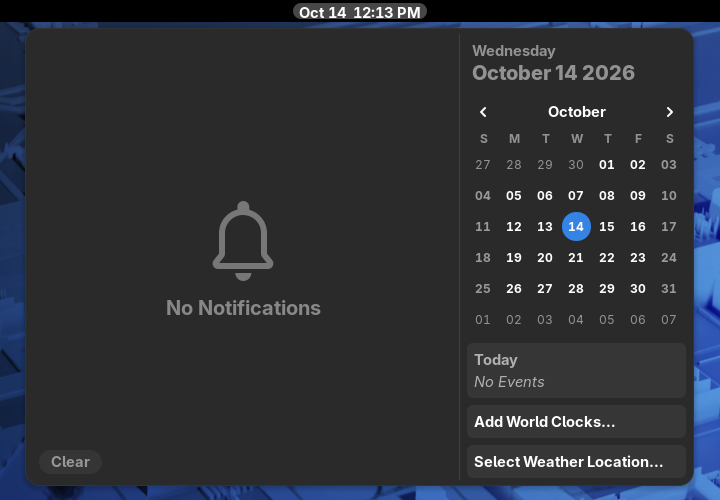
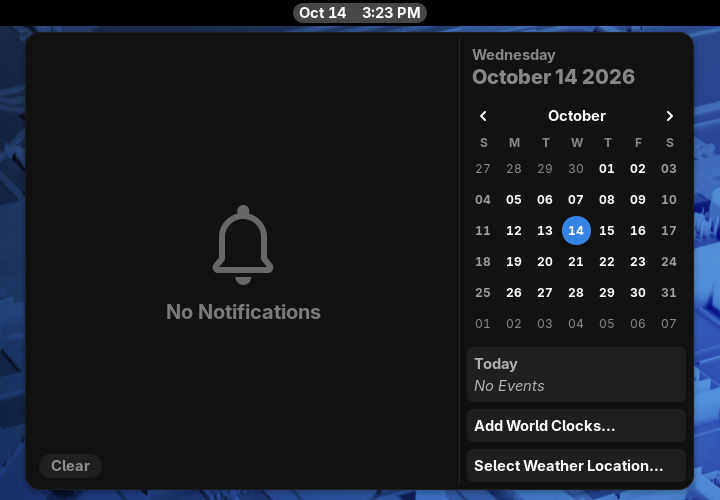
fixing the shell colors

diff --git a/src/gnome-shell/popups.css b/src/gnome-shell/popups.css
@@ -1,0 +1,12 @@
+/* Popups (menus, quick settings, calendar) and notification banners:
+ * near-black background like the Hardcore color scheme, in both the light
+ * and the dark shell. Everything inside them comes from the generated dark
+ * layer above, whose grays are shifted so contrast steps match the theme. */
+
+.popup-menu-boxpointer .popup-menu-content { background-color: #121212; border-color: #1e1e1e; }
+
+/* Banners match the popups: same background, border and corners. */
+#notification-container .notification-banner {
+  background-color: #121212;
+  border: 1px solid #1e1e1e;
+}

diff --git a/scripts/compact.py b/scripts/compact.py
@@ -14,8 +14,12 @@ each special case gets its own scaled copy, so the upstream cascade is kept.
 Every rule that sets one of those properties is mirrored, even when its
 values stay the same (see transform_rule).
 
-With --full the whole stylesheet is re-emitted instead (used for GNOME Shell,
-where a theme replaces the stock stylesheet rather than layering on top).
+With --full the whole stylesheet is re-emitted instead (the always-dark
+GNOME Shell theme).
+
+With --scope the color properties of the stylesheet are re-emitted under the
+given ancestor selector(s) instead (used to give GNOME Shell popups and
+notifications the dark styling while the rest of the shell stays light).
 """
 
 import argparse
@@ -87,8 +91,9 @@ class Scaler:
         return round(v * self.pad, 3)
 
 
-def darken_grays(value, factor):
-    """Turn near-neutral dark/mid grays into darker, fully neutral grays."""
+def darken_grays(value, factor, offset=0):
+    """Turn near-neutral dark/mid grays into darker, fully neutral grays,
+    optionally shifted by a constant `offset` afterwards."""
     def sub(m):
         h = m.group(1)
         if len(h) == 3:
@@ -97,7 +102,7 @@ def darken_grays(value, factor):
         avg = sum(rgb) / 3
         if max(rgb) - min(rgb) > 8 or not 20 <= avg <= 110:
             return m.group(0)
-        return "#{0:02x}{0:02x}{0:02x}".format(round(avg * factor))
+        return "#{0:02x}{0:02x}{0:02x}".format(max(0, round(avg * factor) + offset))
     return HEX.sub(sub, value)
 
 
@@ -252,6 +257,48 @@ def emit_full(items, s, darken):
     return out
 
 
+COLOR_PROP = re.compile(
+    r"color|^background(-image)?$|^border(-(top|right|bottom|left))?$|shadow"
+)
+
+
+def scoped_rule(selector, body, scopes, outside, darken, offset):
+    """Re-emit the color properties of a rule under each ancestor in `scopes`."""
+    decls = []
+    for p, v in split_decls(body):
+        if COLOR_PROP.search(p):
+            if darken:
+                v = darken_grays(v, darken, offset)
+            decls.append(f"{p}: {v};")
+    if not decls:
+        return []
+    sels = []
+    for x in (y.strip() for y in split_top(selector, ",")):
+        if outside.search(x):
+            continue
+        if x == "stage":  # inherited base text color
+            sels.extend(scopes)
+        elif any(sc in x for sc in scopes):
+            sels.append(x)
+        else:
+            sels.extend(f"{sc} {x}" for sc in scopes)
+    if not sels:
+        return []
+    return [f"{', '.join(sels)} {{ {' '.join(decls)} }}"]
+
+
+def emit_scoped(items, scopes, outside, darken, offset):
+    out = []
+    for item in items:
+        if item[0] == "rule":
+            out.extend(scoped_rule(item[1], item[2], scopes, outside, darken, offset))
+        elif item[0] == "block" and item[1].startswith(("@media", "@supports")):
+            inner = emit_scoped(item[2], scopes, outside, darken, offset)
+            if inner:
+                out.append(item[1] + " {\n" + "\n".join(inner) + "\n}")
+    return out
+
+
 def emit(items, s):
     out = []
     for item in items:
@@ -282,7 +329,14 @@ def main():
     ap.add_argument("--exclude", action="append", default=[],
                     help="extra selector regex to leave unscaled (repeatable)")
     ap.add_argument("--darken-grays", type=float, default=0,
-                    help="with --full: multiply neutral dark grays by this factor")
+                    help="multiply neutral dark grays by this factor")
+    ap.add_argument("--gray-offset", type=int, default=0,
+                    help="with --darken-grays: then add this to each gray")
+    ap.add_argument("--scope", action="append", default=[],
+                    help="emit color properties under this ancestor (repeatable)")
+    ap.add_argument("--outside", default=r"(?!x)x",
+                    help="with --scope: regex of selectors that never occur "
+                         "inside the scopes (skipped)")
     args = ap.parse_args()
 
     global EXCLUDE
@@ -295,7 +349,13 @@ def main():
         with open(path, encoding="utf-8") as f:
             css = re.sub(r"/\*.*?\*/", "", f.read(), flags=re.S)
         items, _ = parse(css)
-        rules = emit_full(items, s, args.darken_grays) if args.full else emit(items, s)
+        if args.scope:
+            rules = emit_scoped(items, args.scope, re.compile(args.outside),
+                                args.darken_grays, args.gray_offset)
+        elif args.full:
+            rules = emit_full(items, s, args.darken_grays)
+        else:
+            rules = emit(items, s)
         chunks.append(f"/* from {path.rsplit('/', 1)[-1]} */\n" + "\n".join(rules))
 
     header = (

diff --git a/README.md b/README.md
@@ -41,6 +41,7 @@ The light variant has only the padding changes.
 | Shell quick settings | ![](docs/screenshots/shell-stock-dark-quicksettings.png) | ![](docs/screenshots/shell-ggtk-dark-quicksettings.png) |
 | Shell calendar | ![](docs/screenshots/shell-stock-dark-datemenu.png) | ![](docs/screenshots/shell-ggtk-dark-datemenu.png) |
 | Shell, `ggtk` in light mode | | ![](docs/screenshots/shell-ggtk-light-quicksettings.png) |
+| Notification banner, `ggtk` in light mode | | ![](docs/screenshots/shell-ggtk-light-banner.png) |
 
 | libadwaita (light) | Menu |
 |---|---|
@@ -94,6 +95,11 @@ variants behave differently:
 
 GNOME Shell can't do both at once: its CSS has no way to switch colors by
 color scheme, and a theme stylesheet is a single fixed file.
+
+In **both** variants and both modes, popups and notification banners are
+near-black (`#121212`, like the Hardcore color scheme). That covers the
+calendar, quick settings, the Activities/app menus and right-click menus. With
+`ggtk` in light mode, the top bar stays light while its popups are dark.
 
 What the installer does:
 
@@ -168,12 +174,22 @@ stock theme. `ggtk-dark` is a complete stylesheet (`compact.py --full`) that
 also turns the shell's bluish grays into the darker neutral grays. Accent
 colors are untouched in both, so the shell follows the system accent.
 
+The dark popups come from `compact.py --scope`. It re-emits only the color
+properties of the stock *dark* stylesheet, under the containers that hold
+every popup (`.popup-menu-boxpointer`) and every notification banner
+(`#notification-container`). Its grays are shifted down so the popup
+background lands on `#121212`, and cards, toggles and borders keep the same
+contrast to it. Because the layer is scoped, the rest of a light shell stays
+light. `src/gnome-shell/popups.css` pins the final background and gives the
+banners the same border as the popups.
+
 ```
 src/gtk-3.0/colors-dark.css    darker palette (GTK3 @define-color)
 src/gtk-4.0/colors-dark.css    darker palette (libadwaita CSS variables)
 src/gtk-*/tweaks-dense.css     a few hand-tuned exceptions for the dense preset
 src/gnome-shell/tweaks-dense.css  same, for the shell (top bar height, quick
                                settings, calendar)
+src/gnome-shell/popups.css     popup / notification background (#121212)
 scripts/compact.py             the generator
 scripts/update-vendor.sh       refresh vendor/adw-gtk3 from a release
 vendor/adw-gtk3/               adw-gtk3 v6.5 release CSS + assets
